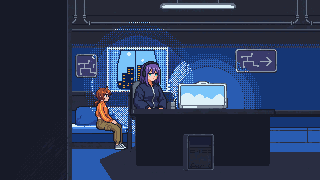
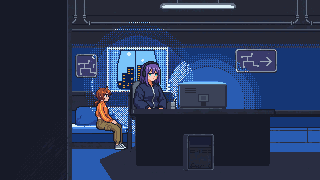
feat: 게임 시작 부팅을 화면 전체 연출로 바꾸고 메인 화면 모니터를 뒷면으로(W-045)
- 부팅: 이전 방 그림 없이 점검 글 → 로고·진행 막대 → WELCOME(2.4초, bootStageSeconds 0.6), 주사선
- CRT 켜짐(W-028) 뒤 흐름은 그대로, 열림 단계 안쪽도 새 부팅 화면
- 메인 화면 책상 모니터를 해커 쪽을 향한 뒷면으로 다시 그림
- PixelCanvas: 확인용 그린 키 기록(기본 꺼짐), 스모크 W-045 체크 2개·캡처 2장
- 스모크 PASS 864 / FAIL 0

담당 AI:
- Claude Code: 설계·검수·반입·스모크
- producer(Sonnet): 코드·그림 수정

Claude-Session: https://claude.ai/code/session_01Ngp83HdyeF7WLuGy8TUS4b

Changed region(s): [[0.5625, 0.4444, 0.7188, 0.6111]]

diff --git a/Unity/Assets/_Project/Scripts/Screens/MenuRenderer.cs b/Unity/Assets/_Project/Scripts/Screens/MenuRenderer.cs
@@ -212,12 +212,71 @@ namespace GameOff.Game
             Hint(x + 10, y + h - 17, "ESC", Loc.T("hint.back"));
         }
 
-        /// <summary>모니터가 켜지고 화면 안에 부팅 글자가 차례로 나온다. stage 0~3.</summary>
-        public void DrawBoot(int stage)
+        // ---------- 부팅 화면(W-045) ----------
+        // 화면 전체가 컴퓨터 부팅 화면이다(이전 방 그림 room_layer*·room_screen_boot_*·room_layer4_hacker_lit는 쓰지 않는다).
+        // 기준 눈금 2.4초(bootStageSeconds 0.6 x 4): 0~0.9 자체 점검 글, 0.9~1.8 로고와 진행 막대, 1.8~2.4 완료(마지막 0.2초 바탕화면 색으로 밝아짐).
+        public const float BootRefSeconds = 2.4f;
+        const float BootTextEnd = 0.9f, BootLogoEnd = 1.8f, BootFadeSeconds = 0.2f;
+        const float BootLineGap = 0.12f;        // 점검 글 한 줄이 나타나는 간격
+        const float BootCursorHalf = 0.125f;    // 커서 깜빡임 반주기(주기 0.25초)
+        const int BootBarX = 200, BootBarY = 190, BootBarW = 240, BootBarH = 8;
+        static readonly string[] BootNames = { "CPU", "MEMORY  65536K", "DISPLAY  CRT-640", "BLUEPRINT LINK", "NETWORK" };
+
+        /// <summary>
+        /// 부팅 화면. seconds = 부팅이 시작된 뒤 지난 시간(CRT 켜짐이 끝난 뒤부터, GameView.BootSeconds), total = 부팅 합계 시간.
+        /// stage(0~3)는 이전 호출 호환용이며 그리기에는 쓰지 않는다. 글은 언어와 무관한 고정 영어(시계처럼).
+        /// </summary>
+        public void DrawBoot(int stage, float seconds = 0f, float total = BootRefSeconds)
         {
-            Room(true);
-            cv.Blit("scenes/room_screen_boot_" + Mathf.Clamp(stage, 0, 3), 0, 0);
-            cv.Blit("scenes/room_layer4_hacker_lit", 0, 0);
+            const int W = PixelCanvas.W, H = PixelCanvas.H;
+            cv.Fill(0, 0, W, H, Pa);
+            float s = Mathf.Max(0f, seconds) * BootRefSeconds / Mathf.Max(0.01f, total);   // 기준 눈금으로 환산
+            if (s < BootTextEnd) DrawBootText(s);
+            else DrawBootLogo(s < BootLogoEnd ? (s - BootTextEnd) / (BootLogoEnd - BootTextEnd) : 1f, s >= BootLogoEnd);
+            for (int y = 1; y < H; y += 2) cv.FillAlpha(0, y, W, 1, new Color32(0, 0, 0, 255), 0.15f);   // 주사선
+            float fade = (s - (BootRefSeconds - BootFadeSeconds)) / BootFadeSeconds;
+            if (fade > 0f) cv.FillAlpha(0, 0, W, H, Bp, Mathf.Clamp01(fade));   // 마지막 0.2초: 바탕화면 쪽 색으로 밝아짐
+        }
+
+        /// <summary>1단계: 왼쪽 위부터 점검 글이 한 줄씩 나타난다. 마지막 줄 끝에 커서가 깜빡인다.</summary>
+        void DrawBootText(float s)
+        {
+            const int X = 16, Y = 16, Step = 12, OkX = X + 6 * 30;
+            int shown = Mathf.Min(7, Mathf.FloorToInt(s / BootLineGap + 0.0001f) + 1);
+            for (int i = 0; i < shown; i++)
+            {
+                int y = Y + i * Step;
+                if (i == 0) { cv.Text5x7(X, y, "SHIFT//REMOTE BIOS  v0.9", Wh); continue; }
+                if (i == 6)
+                {
+                    cv.Text5x7(X, y, "LOADING SHELL", Wh);
+                    if (Mathf.FloorToInt(s / BootCursorHalf) % 2 == 0) cv.Fill(X + 13 * 6, y, 5, 7, Cy);   // 깜빡이는 커서
+                    continue;
+                }
+                string left = BootNames[i - 1] + "  ";
+                while (left.Length < 28) left += ".";
+                cv.Text5x7(X, y, left, Cy);
+                cv.Text5x7(OkX, y, "OK", Gn);
+            }
+        }
+
+        /// <summary>2~3단계: 가운데 로고와 진행 막대. done이면 막대 100%와 WELCOME, OPERATOR.</summary>
+        void DrawBootLogo(float p, bool done)
+        {
+            const int W = PixelCanvas.W;
+            if (cv.Has("ui/logo_temp")) cv.Blit("ui/logo_temp", (W - cv.WidthOf("ui/logo_temp")) / 2, 128);
+            cv.Box(BootBarX, BootBarY, BootBarX + BootBarW - 1, BootBarY + BootBarH - 1, Cy);
+            int inner = BootBarW - 4, filled = Mathf.RoundToInt(inner * Mathf.Clamp01(p));
+            for (int x = 0; x < filled; x += 4)
+                cv.Fill(BootBarX + 2 + x, BootBarY + 2, Mathf.Min(4, filled - x), BootBarH - 4, Color32.Lerp(Bb, Cy, x / (float)inner));   // 파랑 -> 하늘색
+            if (done)
+            {
+                const string msg = "WELCOME, OPERATOR";
+                cv.Text5x7((W - PixelCanvas.TextWidth5x7(msg)) / 2, BootBarY + 16, msg, Wh);
+                return;
+            }
+            string pct = "BOOTING... " + Mathf.RoundToInt(Mathf.Clamp01(p) * 100f) + "%";
+            cv.Text5x7((W - PixelCanvas.TextWidth5x7("BOOTING... 100%")) / 2, BootBarY + 16, pct, Cy);   // 퍼센트 글자 자릿수가 바뀌어도 시작 위치 고정
         }
 
         /// <summary>
@@ -244,7 +303,7 @@ namespace GameOff.Game
                 cv.Fill((W - core) / 2, H / 2, core, 1, Wh);            // 가운데는 흰색
                 return;
             }
-            DrawBoot(0);
+            DrawBoot(0, 0f);   // W-045: 열리는 안쪽은 새 부팅 화면 첫 장면
             float q = Mathf.Clamp01((t + 1) / (float)Fx.CrtOpenTicks);
             int hgt = Mathf.Clamp(Mathf.RoundToInt(H * q), 2, H) & ~1;
             int y0 = (H - hgt) / 2, y1 = y0 + hgt;

diff --git a/Unity/Assets/_Project/Scripts/Editor/Mvp1SmokeCheck.cs b/Unity/Assets/_Project/Scripts/Editor/Mvp1SmokeCheck.cs
@@ -2975,6 +2975,14 @@ namespace GameOff.EditorTools
             view.Canvas.SaveSizedPng(Path.Combine(CaptureDir28, name + "_1920x1080.png"), 1920, 1080);
         }
 
+        static string CaptureDir45 => Path.GetFullPath(Path.Combine(Application.dataPath, "../../Docs/QA/captures/W-045"));
+
+        static void CaptureW45(string name)
+        {
+            Directory.CreateDirectory(CaptureDir45);
+            view.Canvas.SaveSizedPng(Path.Combine(CaptureDir45, name + "_1920x1080.png"), 1920, 1080);
+        }
+
         static double Now => EditorApplication.timeSinceStartup;
 
         /// <summary>자동 확인 전용: 판정 결과를 reflection으로 바꾼다(게임 코드는 건드리지 않는다).</summary>
@@ -3007,10 +3015,13 @@ namespace GameOff.EditorTools
             yield return Press("Enter");
             string seq = "";
             double tBoot = Now, tCrtEnd = -1;
-            bool cap1 = false, cap2 = false, cap3 = false;
-            for (int i = 0; i < 900 && view.CurrentPhase == GameView.Phase.Booting; i++)
+            bool cap1 = false, cap2 = false, cap3 = false, cap6 = false, cap7 = false, tracking = false;   // W-045: cap6·cap7 = 부팅 화면 캡처
+            for (int i = 0; i < 1800 && view.CurrentPhase == GameView.Phase.Booting; i++)
             {
                 int st = view.CrtStage;
+                if (st >= 2 && !tracking) { tracking = true; view.Canvas.TrackKeys = true; view.Canvas.DrawnKeys.Clear(); }   // W-045: 가로선 단계부터 그린 그림 키를 모은다
+                if (st == 0 && !cap6 && view.BootSeconds > 0.5f) { cap6 = true; CaptureW45("06-boot-text"); }
+                if (st == 0 && !cap7 && view.BootSeconds > 1.3f) { cap7 = true; CaptureW45("07-boot-logo"); }
                 char c = st == 0 ? 'B' : (char)('0' + st);
                 if (seq.Length == 0 || seq[seq.Length - 1] != c) { seq += c; if (st == 0 && tCrtEnd < 0) tCrtEnd = Now; }
                 if (st == 1 && !cap1 && view.CrtStageSeconds > 0.2f) { cap1 = true; CaptureW28("03-crt-fade-out"); }
@@ -3019,7 +3030,17 @@ namespace GameOff.EditorTools
                 if (st != 0 && i == 20) next.Enter = true;   // 켜짐 도중 Enter: 무시되어야 한다(단계가 그대로 이어짐)
                 yield return null;
             }
+            double tBootEnd = Now;
+            view.Canvas.TrackKeys = false;
             Check("W-028 3: NEW GAME -> CRT stages in order fade(1) -> line(2) -> open(3) -> boot text (sequence '" + seq + "')", seq.StartsWith("123B"));
+            // W-045: 부팅은 화면 전체 연출이다. 이전 방 그림 키를 CRT 열림 단계부터 부팅 끝까지 한 번도 그리지 않고, 부팅 합계는 약 2.4초
+            string oldKeys = "";
+            foreach (string k in view.Canvas.DrawnKeys)
+                if (k.StartsWith("scenes/room_layer") || k.StartsWith("scenes/room_screen_boot") || k == "scenes/room_layer4_hacker_lit") oldKeys += k + " ";
+            Check("W-045 boot: no old room picture (scenes/room_layer*, room_screen_boot_*, room_layer4_hacker_lit) is drawn from the CRT line stage to the end of the boot (drawn keys " + view.Canvas.DrawnKeys.Count + ", old: '" + oldKeys.Trim() + "')", tracking && oldKeys.Length == 0);
+            double bootSeconds = tBootEnd - tCrtEnd;
+            Check("W-045 boot: setting 0.6 s x 4 = 2.4 s (BootTotalSeconds " + view.BootTotalSeconds.ToString("0.00") + "), measured boot screen " + bootSeconds.ToString("0.00") + " s, captures 06-boot-text / 07-boot-logo taken",
+                Mathf.Approximately(view.BootTotalSeconds, 2.4f) && tCrtEnd > 0 && bootSeconds > 2.2 && bootSeconds < 3.2 && cap6 && cap7);
             double crtSeconds = tCrtEnd - tBoot;
             Check("W-028 3: CRT-on takes about 0.85 s before the boot text (measured " + crtSeconds.ToString("0.00") + " s)", tCrtEnd > 0 && crtSeconds > 0.7 && crtSeconds < 1.3);
             Check("W-028 3: durations 0.4 / 0.15 / 0.3 s (CrtTotal " + Fx.CrtTotalSeconds.ToString("0.00") + ")", Mathf.Approximately(Fx.CrtFadeSeconds, 0.4f) && Mathf.Approximately(Fx.CrtLineSeconds, 0.15f) && Mathf.Approximately(Fx.CrtOpenSeconds, 0.3f));

diff --git a/Unity/Assets/_Project/Scripts/Game/GameView.cs b/Unity/Assets/_Project/Scripts/Game/GameView.cs
@@ -69,6 +69,10 @@ namespace GameOff.Game
         public bool SlideSettled => slideElapsed >= Fx.ColumnSlideTicks * Fx.TickSeconds;
         /// <summary>부팅 글자 단계(0~3). 앞의 CRT 켜짐(Fx.CrtTotalSeconds, W-028)이 끝난 뒤부터 센다.</summary>
         public int BootStage => Mathf.Clamp(Mathf.FloorToInt((loadElapsed - Fx.CrtTotalSeconds) / settings.bootStageSeconds), 0, 3);
+        /// <summary>부팅 화면이 시작된 뒤 지난 시간(초, CRT 켜짐이 끝난 뒤부터, W-045). 부팅 단계가 아니면 0.</summary>
+        public float BootSeconds => CurrentPhase == Phase.Booting ? Mathf.Max(0f, loadElapsed - Fx.CrtTotalSeconds) : 0f;
+        /// <summary>부팅 화면 합계 시간(초).</summary>
+        public float BootTotalSeconds => settings.bootStageSeconds * 4;
         /// <summary>게임 시작 CRT 켜짐이 진행 중인지(부팅 단계 앞부분).</summary>
         public bool CrtActive => CurrentPhase == Phase.Booting && loadElapsed < Fx.CrtTotalSeconds;
         /// <summary>CRT 켜짐 단계: 0 없음, 1 검게 페이드 아웃, 2 가로선 펼침, 3 위아래로 열림. CrtStageSeconds는 그 단계가 시작된 뒤 지난 시간.</summary>
@@ -319,10 +323,8 @@ namespace GameOff.Game
 
                 case Phase.Booting:
                 {
-                    int before = BootStage;
-                    bool crtBefore = CrtActive;
                     loadElapsed += Mathf.Min(Time.deltaTime, 0.1f);
-                    if (crtBefore || CrtActive || BootStage != before) dirty = true;   // CRT 켜짐은 매 프레임 다시 그린다
+                    dirty = true;   // CRT 켜짐·부팅 화면(점검 글·진행 막대·커서)은 매 프레임 다시 그린다(W-045)
                     if (loadElapsed >= Fx.CrtTotalSeconds + settings.bootStageSeconds * 4) OpenDesktop(false);
                     break;
                 }
@@ -703,7 +705,7 @@ namespace GameOff.Game
                 case Phase.Credits: menus.DrawCredits(); break;
                 case Phase.Booting:
                     if (CrtActive) menus.DrawCrt(CrtStage, CrtStageSeconds, MainIndex, mainItems);   // W-028(D-109 ⑤): 게임 시작 CRT 켜짐
-                    else menus.DrawBoot(BootStage);
+                    else menus.DrawBoot(BootStage, BootSeconds, BootTotalSeconds);
                     break;
                 case Phase.Desktop: menus.DrawDesktop(DeskIcon, PopupOpen, Fx.TickOf(popupElapsed), ColumnShift(), InFolder, FolderIndex, DeskIndex, -1f, DevLockedShown); break;
                 case Phase.Connecting: menus.DrawDesktop(0, true, Fx.PopupOpenTicks, MenuRenderer.ColumnStep, true, FolderIndex, DeskIndex, loadElapsed / settings.connectSeconds, false); break;

diff --git a/Unity/Assets/_Project/Scripts/Screens/PixelCanvas.cs b/Unity/Assets/_Project/Scripts/Screens/PixelCanvas.cs
@@ -484,10 +484,15 @@ namespace GameOff.Game
 
         public bool Has(string key) => Find(key) != null;
 
+        /// <summary>자동 확인 전용(W-045): true인 동안 그린 그림 키를 DrawnKeys에 모은다(비우기는 부르는 쪽이 한다). 평소에는 꺼져 있다.</summary>
+        public bool TrackKeys;
+        public readonly HashSet<string> DrawnKeys = new HashSet<string>();
+
         public void Blit(string key, int x, int y)
         {
             Img im = Find(key);
             if (im == null) return;
+            if (TrackKeys) DrawnKeys.Add(key);
             DrawImg(im, 0, 0, im.w, im.h, x * Z, y * Z, im.w * im.px, im.h * im.px, false);
         }
 
@@ -496,6 +501,7 @@ namespace GameOff.Game
         {
             Img im = Find(key);
             if (im == null) return;
+            if (TrackKeys) DrawnKeys.Add(key);
             int lpx = Z / im.px;   // 그림 px / 논리 px (기존 그림 1, 4배 그림 4)
             int ix = sx * lpx, iy = sy * lpx, iw = sw * lpx, ih = sh * lpx;
             int cx0 = System.Math.Max(0, ix), cy0 = System.Math.Max(0, iy);
@@ -510,6 +516,7 @@ namespace GameOff.Game
         {
             Img im = Find(key);
             if (im == null) return;
+            if (TrackKeys) DrawnKeys.Add(key);
             DrawImg(im, 0, 0, im.w, im.h, x * Z, y * Z, im.w * im.px / 2f, im.h * im.px / 2f, false);
         }
 
@@ -518,6 +525,7 @@ namespace GameOff.Game
         {
             Img im = Find(key);
             if (im == null) return;
+            if (TrackKeys) DrawnKeys.Add(key);
             DrawImg(im, 0, 0, im.w, im.h, x * Z, y * Z, im.w * im.px * s, im.h * im.px * s, false);
         }
 
@@ -529,6 +537,7 @@ namespace GameOff.Game
         {
             Img im = Find(key);
             if (im == null || im.frames <= 0) return;
+            if (TrackKeys) DrawnKeys.Add(key);
             frame = Mathf.Clamp(frame, 0, im.frames - 1);
             int cols = Mathf.Max(1, im.w / im.frameW);
             int sx = (frame % cols) * im.frameW, sy = (frame / cols) * im.frameH;
@@ -617,6 +626,7 @@ namespace GameOff.Game
         {
             Img im = Find(key);
             if (im == null) return;
+            if (TrackKeys) DrawnKeys.Add(key);
             int l = im.nl, t = im.nt, r = im.nr, b = im.nb;
             int cw = im.w - l - r, ch = im.h - t - b;
             int p = im.px;

diff --git a/Unity/Assets/_Project/Scripts/Data/GameSettings.cs b/Unity/Assets/_Project/Scripts/Data/GameSettings.cs
@@ -29,7 +29,7 @@ namespace GameOff.Data
         [Min(0f)] public float surpriseTracking = 70f;         // 추적도가 이 값 이상이면 surprise(카운트다운 중은 fear)
 
         [Header("화면 연출 [제안]")]
-        [Min(0.05f)] public float bootStageSeconds = 0.375f;   // 모니터 켜짐 로딩 4단계(합계 1.5초)
+        [Min(0.05f)] public float bootStageSeconds = 0.6f;     // 부팅 화면 4단계(합계 2.4초, W-045: 점검 글 → 로고·막대 → 완료)
         [Min(0.05f)] public float connectSeconds = 1f;         // 게임 진입 로딩
         [Min(0f)] public float panelSlideSeconds = 0.25f;      // 상세 패널 등장
 
